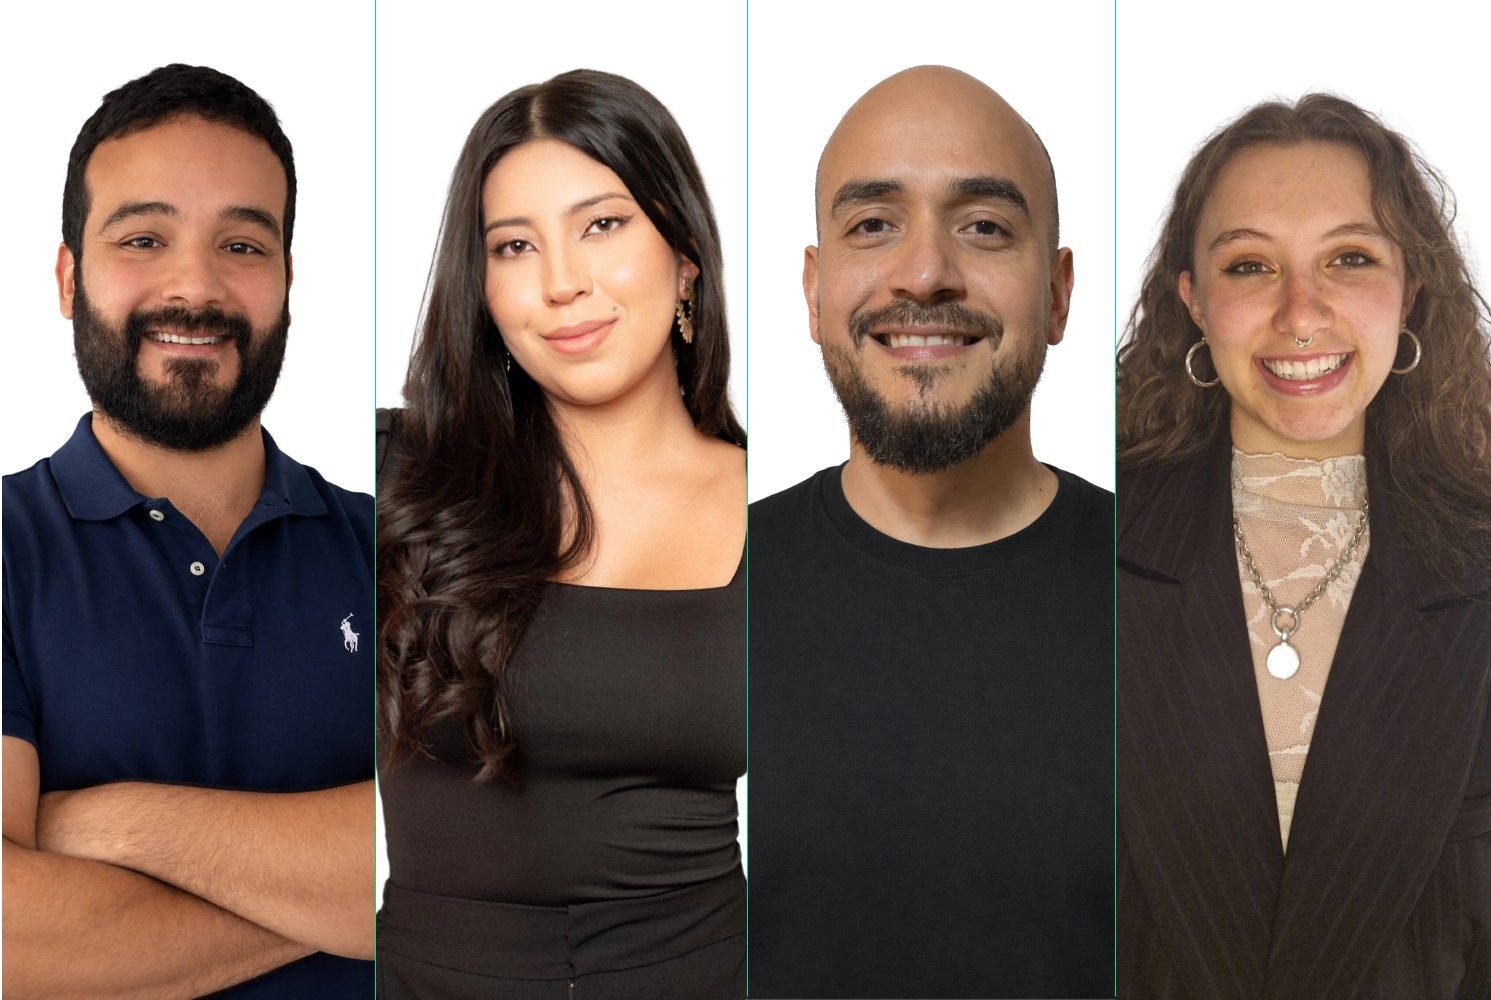
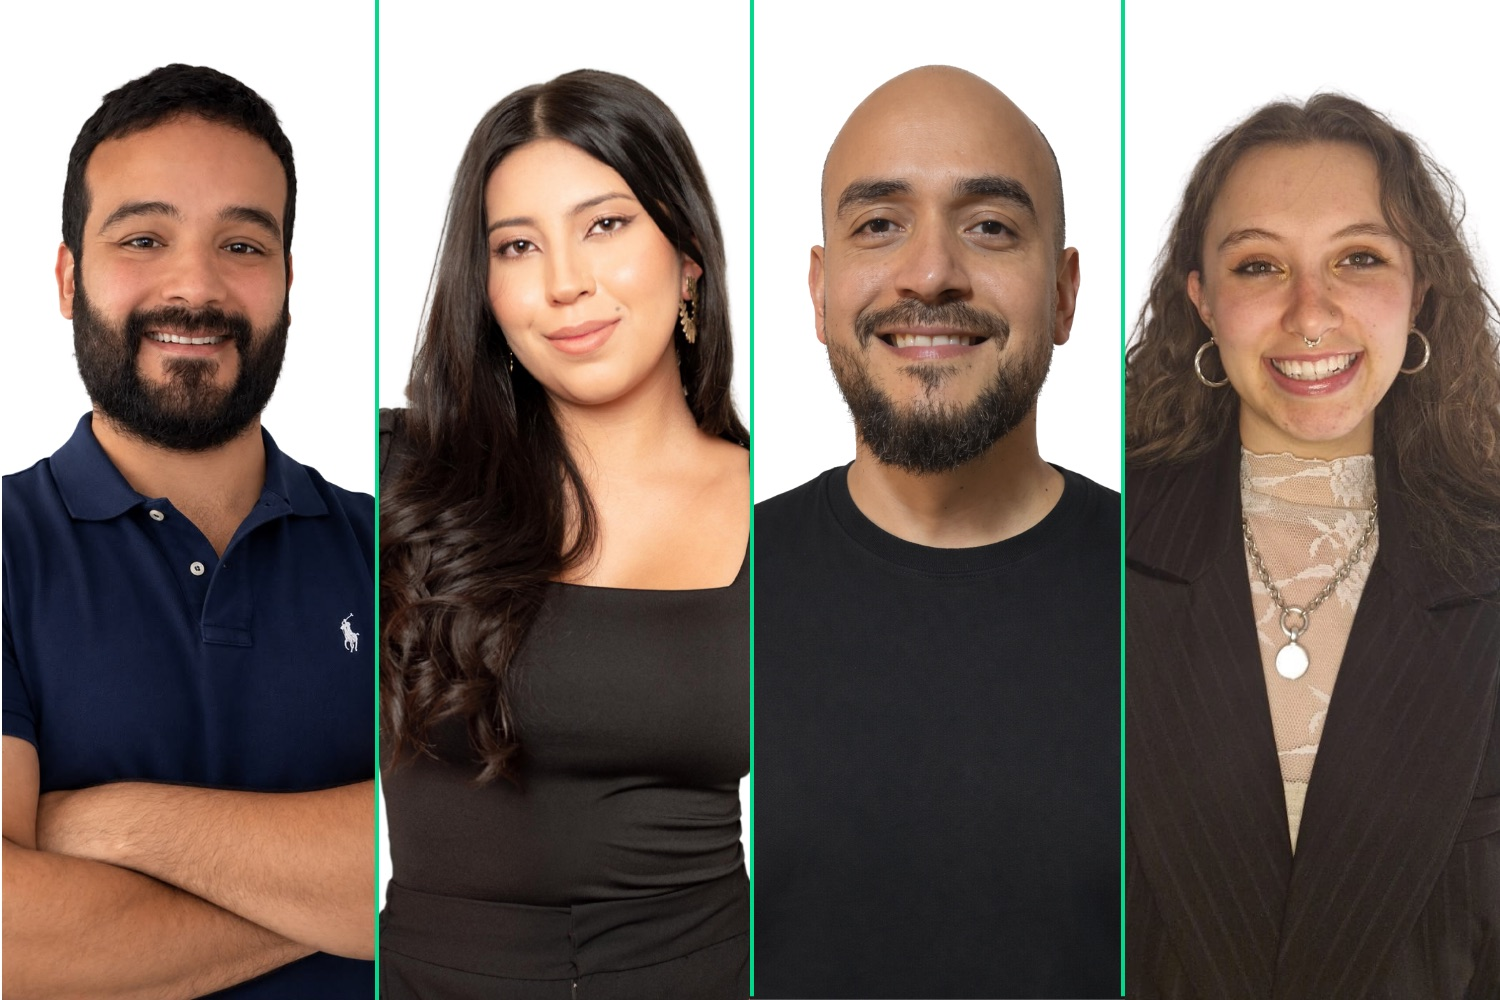
Website fixes batch 2: real photos from Laura's asset folder
- Home → Industries flip cards (home-services / transportation / logistics)
- Industries pages: 'What we do' split photos (crew paperwork review, driver taking a call, logistics tracking)
- About: founder portraits (Daniel, Juan Pablo, Felipe, Víctor), team + culture photos
- Careers: culture & benefits collage refreshed; hero photo stored at /images/careers/hero.jpg (unused — hero stays navy)
- patch-content.mjs wires all of the above into the stored content doc

diff --git a/lib/content/seed.ts b/lib/content/seed.ts
@@ -49,9 +49,9 @@ const home: PageDoc = {
       cols: 3,
       flip: true,
       cards: [
-        { tag: "Home Services", title: "When the phone is your office", text: "Cleaning, landscaping, pest control, HVAC, plumbing. Every missed call is lost revenue. Build a team that never lets one ring out.", label: "Home Services", href: "/industries/home-services" },
-        { tag: "NEMT &amp; Student Transportation", title: "Regulated rides under strict SLAs", text: "One missed pickup can cost the contract. Scale dispatch and support without dropping standards.", label: "Transportation", href: "/industries/transportation" },
-        { tag: "3PL &amp; Logistics", title: "Track, trace, and back office", text: "Carrier sales and back office that consume your team's capacity. Add specialized support that scales with volume.", label: "3PL &amp; Logistics", href: "/industries/logistics" },
+        { tag: "Home Services", title: "When the phone is your office", text: "Cleaning, landscaping, pest control, HVAC, plumbing. Every missed call is lost revenue. Build a team that never lets one ring out.", label: "Home Services", href: "/industries/home-services", image: "/images/home/industries/home-services.jpg", imageAlt: "Residential home with landscaped front yard" },
+        { tag: "NEMT &amp; Student Transportation", title: "Regulated rides under strict SLAs", text: "One missed pickup can cost the contract. Scale dispatch and support without dropping standards.", label: "Transportation", href: "/industries/transportation", image: "/images/home/industries/transportation.jpg", imageAlt: "Driver helping a passenger board an accessible van" },
+        { tag: "3PL &amp; Logistics", title: "Track, trace, and back office", text: "Carrier sales and back office that consume your team's capacity. Add specialized support that scales with volume.", label: "3PL &amp; Logistics", href: "/industries/logistics", image: "/images/home/industries/logistics.jpg", imageAlt: "Warehouse worker scanning shipments at the loading dock" },
       ],
     }),
     b("home-changes", "costGridNavy", {
@@ -207,7 +207,7 @@ const homeServices: PageDoc = {
     b("hs-do", "splitDo", {
       eyebrow: "What we do",
       title: "One dedicated team, built around how your service business runs.",
-      imageSide: "right", ratio: "120%",
+      imageSide: "right", ratio: "120%", image: "/images/industries/home-services-crew.jpg", imageAlt: "Service crew reviewing the day's jobs together",
       phLabel: "A crew or tech doing real work, or a dispatch coordination moment.", phSpec: "1600px · 3:2 · <200 KB",
       items: [
         { icon: "phone-incoming", title: "Never miss an inbound call", text: "Your team answers, qualifies, and books — in your time zone, in fluent English. Every ring becomes a booked job instead of a voicemail." },
@@ -267,7 +267,7 @@ const transportation: PageDoc = {
     b("tr-do", "splitDo", {
       eyebrow: "What we do",
       title: "Teams that speak your operation from day one.",
-      imageSide: "left", ratio: "120%",
+      imageSide: "left", ratio: "120%", image: "/images/industries/transportation-driver.jpg", imageAlt: "Driver taking a dispatch call in transit",
       phLabel: "A dispatch / coordination scene, or a student-transport vehicle.", phSpec: "1600px · 3:2 · <200 KB",
       items: [
         { icon: "phone-call", title: "High-volume inbound", text: "Handle 500 to 6,000 calls a day with the staffing to keep average handle time near target and wait times low." },
@@ -311,7 +311,7 @@ const logistics: PageDoc = {
     b("lg-do", "splitDo", {
       eyebrow: "What we do",
       title: "Logistics support that scales with your volume.",
-      imageSide: "right", ratio: "110%",
+      imageSide: "right", ratio: "110%", image: "/images/industries/logistics-tracking.jpg", imageAlt: "Logistics team tracking shipments",
       phLabel: "Pallets and racking, or a shipment-tracking screen.", phSpec: "1600px · 3:2 · <200 KB",
       items: [
         { icon: "package-search", title: "Track and trace", text: "Proactive shipment updates and status handling — so customers stop calling for visibility you can give them first." },
@@ -346,10 +346,10 @@ const about: PageDoc = {
       eyebrow: "Founders",
       title: "Operators who've run these businesses.",
       people: [
-        { name: "Daniel Hernández", role: "CEO", text: "Operator with direct experience running US businesses, based in Utah, with firsthand knowledge of home services and NEMT / student transportation." },
-        { name: "Juan Pablo Rivas", role: "COO", text: "Leads operations and delivery structure." },
-        { name: "Felipe Jiménez", role: "CGO", text: "Leads product and growth, plus marketing and business development." },
-        { name: "Víctor Sandoval", role: "CTO", text: "Leads the technology layer — the dashboards, integrations, and tracking Vivo builds and operates as part of each team." },
+        { name: "Daniel Hernández", role: "CEO", image: "/images/about/daniel-hernandez.jpg", text: "Operator with direct experience running US businesses, based in Utah, with firsthand knowledge of home services and NEMT / student transportation." },
+        { name: "Juan Pablo Rivas", role: "COO", image: "/images/about/juan-pablo-rivas.jpg", text: "Leads operations and delivery structure." },
+        { name: "Felipe Jiménez", role: "CGO", image: "/images/about/felipe-jimenez.jpg", text: "Leads product and growth, plus marketing and business development." },
+        { name: "Víctor Sandoval", role: "CTO", image: "/images/about/victor-sandoval.jpg", text: "Leads the technology layer — the dashboards, integrations, and tracking Vivo builds and operates as part of each team." },
       ],
     }),
     b("ab-team", "splitText", {
@@ -357,6 +357,7 @@ const about: PageDoc = {
       eyebrow: "Our team",
       title: "A trained team that stays.",
       lead: "Behind every Vivo POD are specialists who are trained, supported, and held to a standard. We hire for capability and English fluency, and we invest in the people who represent your business.",
+      image: "/images/about/team.jpg", imageAlt: "Vivo team working together in the office",
       phTag: "Photo · real Vivo team", phLabel: "Candid group or workspace shot. Consistency of lighting is the rule.", phSpec: "1600px · 3:2 · <200 KB",
     }),
     b("ab-culture", "splitText", {
@@ -364,6 +365,7 @@ const about: PageDoc = {
       eyebrow: "Our culture",
       title: "Flat in voice and respect. Clear in responsibility.",
       lead: "We operate as one team across two countries. Everyone has a voice, everyone owns their outcomes, and no one hides behind a title.",
+      image: "/images/about/culture.jpg", imageAlt: "Remote team meeting on a video call",
       phTag: "Photo · culture", phLabel: "Real people, real workspace, natural moment. No stock.", phSpec: "1600px · 3:2 · <200 KB",
       cta: { label: "See open roles", href: "/careers" },
     }),
